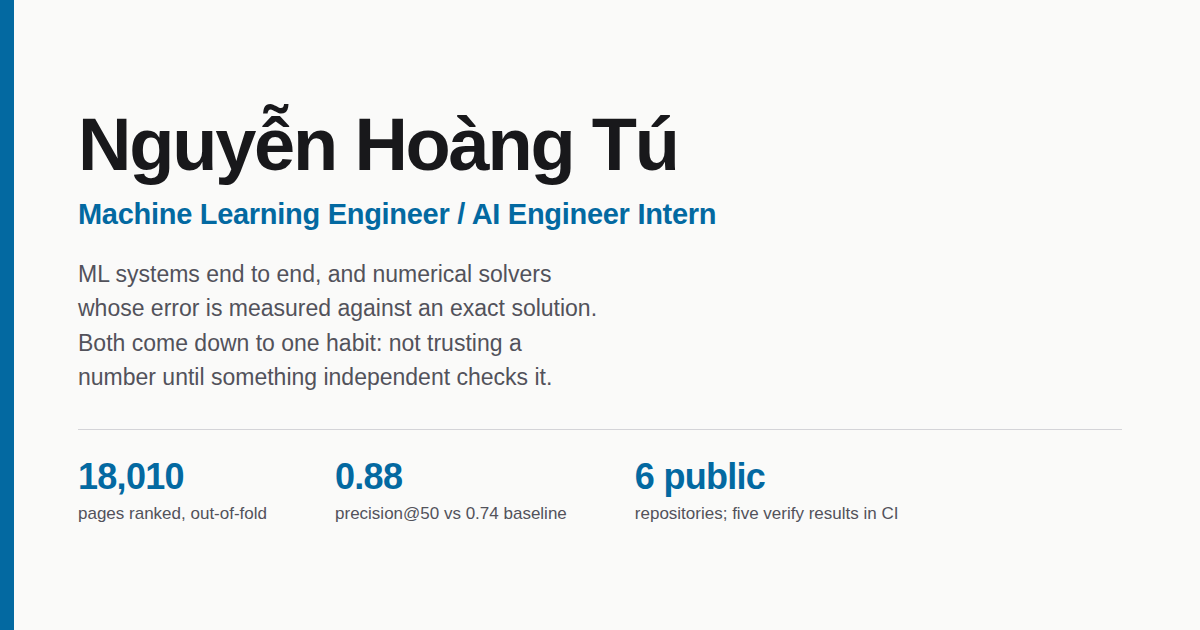
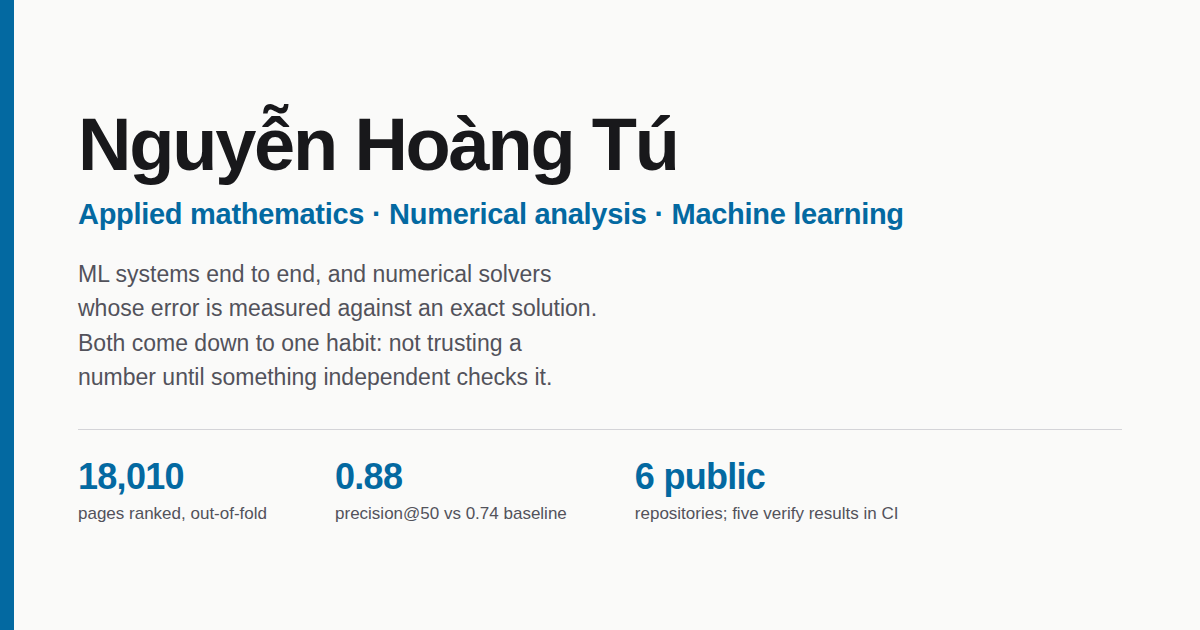
Portfolio: reposition for research, typeset the mathematics, animate the result
The page opened with a six-line paragraph and nothing else above the fold: a
wall of grey prose, no figure, no mathematics, nothing moving, and a role line
aimed only at engineering internships. For a reader deciding whether to look
further -- an admissions committee, a research group -- there was nothing to
look at.

Repositioned. Title, role line, meta description, og/twitter cards and the
JSON-LD jobTitle now read "applied mathematics, numerical analysis and machine
learning" rather than "ML / AI Engineer Intern". The share card is regenerated
from make_portfolio_og.py, so the image matches its generator.

New "Research" section, with the mathematics actually typeset: the sharp CFL
bound and its two constants, the stability bound ||e|| <= pi^-2 ||r||, the
accumulated-error recursion for inexact proximal steps, and the exact statement
of ReLU's degeneracy under a second-order operator. Each one carries what was
measured against it.

This uses native MathML, not a JavaScript renderer. A CDN cannot be reached
from every network a reviewer might be on, and the formulae are the point of
the page -- they should not depend on a third party being up. It also means the
markup could be verified here: all 16 math elements parse as well-formed XML
and were checked visually in Chromium.

Animated, in three ways that all degrade safely:
- the threshold animation from the FEM project is now the hero figure, so the
  first thing on the page is a result rather than a paragraph;
[…]

Changed region(s): [[0.0617, 0.3016, 0.7708, 0.3619]]

diff --git a/docs/portfolio/index.html b/docs/portfolio/index.html
@@ -4,8 +4,8 @@
   <meta charset="UTF-8">
   <meta name="google-site-verification" content="RoBPPTMe-SpFcYKFTp-OJqG3KOfBKTTpeFSvSFcufJE">
   <meta name="viewport" content="width=device-width, initial-scale=1.0">
-  <title>Nguyễn Hoàng Tú — Machine Learning / AI Engineer Intern</title>
-  <meta name="description" content="Maths and CS undergraduate targeting ML / AI Engineer internships. Six public repos: a ranking system with a paper, plus numerical-analysis work verified in CI.">
+  <title>Nguyễn Hoàng Tú — Applied Mathematics &amp; Machine Learning</title>
+  <meta name="description" content="Mathematics and Computer Science undergraduate, VNU-HCM. Numerical analysis and machine learning across six public repositories, recomputed in CI.">
   <link rel="canonical" href="https://tu-h-nguyn.github.io/FlyRank-Machine-Learning-Internship/portfolio/">
   <meta name="robots" content="index, follow, max-image-preview:large">
   <meta name="author" content="Nguyễn Hoàng Tú">
@@ -14,17 +14,17 @@
   <!-- Social share preview -->
   <meta property="og:type" content="profile">
   <meta property="og:site_name" content="Nguyễn Hoàng Tú">
-  <meta property="og:title" content="Nguyễn Hoàng Tú — Machine Learning / AI Engineer Intern">
-  <meta property="og:description" content="Mathematics and Computer Science undergraduate targeting Machine Learning / AI Engineer internships. Six public repositories: a search-ranking system with a published paper (18,010 pages ranked out-of-fold, 0.88 precision@50 against a 0.74 rule baseline) alongside finite element, finite volume and linear multistep work whose published numbers are recomputed in CI.">
+  <meta property="og:title" content="Nguyễn Hoàng Tú — Applied Mathematics &amp; Machine Learning">
+  <meta property="og:description" content="Mathematics and Computer Science undergraduate at VNU-HCM University of Science. Numerical analysis and machine learning: a sharp CFL constant derived and verified to four significant figures, a stability bound checked at every training step, and a search-ranking system with a published paper (18,010 pages ranked out-of-fold, 0.88 precision@50 against a 0.74 rule baseline). Six public repositories, 359 automated tests, results recomputed in CI.">
   <meta property="og:url" content="https://tu-h-nguyn.github.io/FlyRank-Machine-Learning-Internship/portfolio/">
   <meta property="og:image" content="https://tu-h-nguyn.github.io/FlyRank-Machine-Learning-Internship/portfolio/og.png">
   <meta property="og:image:width" content="1200">
   <meta property="og:image:height" content="630">
-  <meta property="og:image:alt" content="Nguyễn Hoàng Tú, Machine Learning / AI Engineer Intern — 18,010 pages ranked, 0.88 precision@50, six public repositories with results verified in CI.">
+  <meta property="og:image:alt" content="Nguyễn Hoàng Tú — applied mathematics and machine learning. 18,010 pages ranked out-of-fold, 0.88 precision@50, six public repositories with results recomputed in CI.">
   <meta property="og:locale" content="en_US">
   <meta name="twitter:card" content="summary_large_image">
-  <meta name="twitter:title" content="Nguyễn Hoàng Tú — Machine Learning / AI Engineer Intern">
-  <meta name="twitter:description" content="Mathematics and Computer Science undergraduate targeting Machine Learning / AI Engineer internships. Six public repositories: a search-ranking system with a published paper (18,010 pages ranked out-of-fold, 0.88 precision@50 against a 0.74 rule baseline) alongside finite element, finite volume and linear multistep work whose published numbers are recomputed in CI.">
+  <meta name="twitter:title" content="Nguyễn Hoàng Tú — Applied Mathematics &amp; Machine Learning">
+  <meta name="twitter:description" content="Mathematics and Computer Science undergraduate at VNU-HCM University of Science. Numerical analysis and machine learning: a sharp CFL constant derived and verified to four significant figures, a stability bound checked at every training step, and a search-ranking system with a published paper (18,010 pages ranked out-of-fold, 0.88 precision@50 against a 0.74 rule baseline). Six public repositories, 359 automated tests, results recomputed in CI.">
   <meta name="twitter:image" content="https://tu-h-nguyn.github.io/FlyRank-Machine-Learning-Internship/portfolio/og.png">
 
   <link rel="icon" href="favicon.svg" type="image/svg+xml">
@@ -46,8 +46,8 @@
     "alternateName": "Tu Nguyen",
     "url": "https://tu-h-nguyn.github.io/FlyRank-Machine-Learning-Internship/portfolio/",
     "image": "https://tu-h-nguyn.github.io/FlyRank-Machine-Learning-Internship/portfolio/og.png",
-    "jobTitle": "Machine Learning Engineer / AI Engineer Intern",
-    "description": "Mathematics and Computer Science undergraduate targeting Machine Learning / AI Engineer internships. Six public repositories: a search-ranking system with a published paper (18,010 pages ranked out-of-fold, 0.88 precision@50 against a 0.74 rule baseline) alongside finite element, finite volume and linear multistep projects whose published numbers are recomputed in CI.",
+    "jobTitle": "Applied mathematics, numerical analysis and machine learning",
+    "description": "Mathematics and Computer Science undergraduate at VNU-HCM University of Science. Numerical analysis and machine learning: a sharp CFL constant derived and verified to four significant figures, a stability bound checked at every training step, and a search-ranking system with a published paper (18,010 pages ranked out-of-fold, 0.88 precision@50 against a 0.74 rule baseline). Six public repositories, 359 automated tests, results recomputed in CI.",
     "knowsAbout": ["Machine Learning", "Deep Learning", "PyTorch", "Time Series Forecasting",
                    "Ranking Systems", "Data Leakage Auditing", "Python", "scikit-learn",
                    "Numerical Analysis", "Finite Element Method", "Finite Volume Method",
@@ -167,6 +167,87 @@
     .btn-secondary { background: transparent; color: var(--accent); }
     .btn-secondary:hover, .btn-secondary:focus-visible { background: var(--accent); color: #fff; outline: none; }
     .btn:focus-visible { box-shadow: 0 0 0 3px var(--accent-light); }
+
+    /* ── Hero statistics ─────────────────────────────────────────────── */
+    .stat-strip {
+      display: grid; grid-template-columns: repeat(4, 1fr);
+      gap: 0; margin: 2rem 0 2.2rem;
+      border-top: 1px solid var(--border); border-bottom: 1px solid var(--border);
+    }
+    .stat { padding: 0.95rem 0.6rem 0.9rem; text-align: left; }
+    .stat + .stat { border-left: 1px solid var(--border); padding-left: 0.95rem; }
+    .stat-num {
+      display: block; font-family: var(--mono); font-weight: 700;
+      font-size: 1.55rem; line-height: 1.1; color: var(--accent);
+      /* Fixed-width digits stop the row jittering while the numbers count up. */
+      font-variant-numeric: tabular-nums;
+    }
+    .stat-lab {
+      display: block; margin-top: 0.3rem; font-size: 0.74rem; line-height: 1.35;
+      color: var(--text-muted); letter-spacing: 0.01em;
+    }
+    @media (max-width: 640px) {
+      .stat-strip { grid-template-columns: repeat(2, 1fr); }
+      .stat:nth-child(3) { border-left: none; padding-left: 0.6rem; }
+      .stat:nth-child(3), .stat:nth-child(4) { border-top: 1px solid var(--border); }
+      .stat-num { font-size: 1.35rem; }
+    }
+
+    /* ── Hero figure ─────────────────────────────────────────────────── */
+    .hero-fig { margin: 0 0 1.6rem; }
+    .hero-fig img {
+      width: 100%; height: auto; display: block;
+      border: 1px solid var(--border); border-radius: 6px; background: var(--surface);
+    }
+    .hero-fig figcaption {
+      margin-top: 0.7rem; font-size: 0.82rem; line-height: 1.6;
+      color: var(--text-secondary);
+    }
+    .hero-fig figcaption a { white-space: nowrap; }
+
+    /* ── Scroll reveal ───────────────────────────────────────────────── */
+    /* Opacity and a small lift only: nothing reflows, so this cannot shift
+       text under a reader's eye mid-sentence. */
+    .reveal { opacity: 0; transform: translateY(14px); }
+    .reveal.shown {
+      opacity: 1; transform: none;
+      transition: opacity .55s ease, transform .55s cubic-bezier(.22,.61,.36,1);
+    }
+    /* Anyone who has asked their system not to animate gets the page static,
+       and — critically — fully visible, never stuck at opacity 0. */
+    @media (prefers-reduced-motion: reduce) {
+      .reveal, .reveal.shown { opacity: 1; transform: none; transition: none; }
+    }
+    /* Printing must never produce blank pages for sections the reader happened
+       not to have scrolled past. */
+    @media print {
+      .reveal, .reveal.shown { opacity: 1 !important; transform: none !important; }
+    }
+
+    /* ── Mathematics ─────────────────────────────────────────────────── */
+    /* Native MathML, no renderer and no CDN. The page is about numerical
+       analysis, so its formulae should be real mathematics rather than
+       sub/sup approximations -- and they should still be there when a CDN is
+       blocked, which is exactly when a reviewer is most likely to be reading. */
+    math { font-size: 1.06em; font-family: 'Latin Modern Math', 'STIX Two Math', 'Cambria Math', serif; }
+    /* Do NOT set `display: block` here. MathML has its own inner display type;
+       overriding it with the CSS block value makes every token lay out as a
+       separate block box and the formula collapses into a vertical column.
+       The display="block" attribute already centres it -- style only the box. */
+    math[display="block"] {
+      margin: 1.15rem 0;
+      overflow-x: auto; overflow-y: hidden;   /* long formulae scroll on a phone */
+    }
+    .eq {
+      margin: 1.2rem 0; padding: 0.9rem 1rem;
+      background: var(--surface); border: 1px solid var(--border);
+      border-left: 3px solid var(--accent); border-radius: 4px;
+    }
+    .eq math[display="block"] { margin: 0.2rem 0; }
+    .eq-note {
+      margin: 0.55rem 0 0; font-size: 0.78rem; line-height: 1.55;
+      color: var(--text-muted); text-align: left;
+    }
 
     .hero-links {
       margin-top: 1rem; font-size: 0.82rem;
@@ -469,6 +550,7 @@
     <div class="nav-inner">
       <span class="nav-name">Nguyễn Hoàng Tú</span>
       <div class="nav-links">
+        <a href="#research">Research</a>
         <a href="#projects">Projects</a>
         <a href="#approach">Approach</a>
         <a href="#skills">Skills</a>
@@ -482,16 +564,43 @@
     <!-- ═══ HERO ═══ -->
     <header class="hero">
       <h1>Nguyễn Hoàng Tú</h1>
-      <p class="role">Machine Learning Engineer / AI Engineer Intern</p>
+      <p class="role">Applied mathematics &middot; Numerical analysis &middot; Machine learning</p>
       <p class="value-prop">
-        Mathematics and Computer Science undergraduate. I build machine learning
-        systems end to end — framing the decision the model has to support, auditing
-        the data for leakage, building a baseline before reaching for a model, and
-        reporting what held up out of sample. The other half of my work is numerical
-        analysis: solvers whose error is measured against an exact solution, and
-        published results a script has to be able to regenerate. Both halves come down
-        to one habit — not trusting a number until something independent checks it.
+        Mathematics and Computer Science undergraduate at VNU-HCM University of
+        Science. I work on <strong>numerical methods for differential equations</strong>
+        and <strong>machine learning systems</strong>, and the two halves share one
+        habit: <strong>no number is published until something independent recomputes
+        it.</strong> Every claim below is checked by a script that fails a build when
+        it stops being true.
       </p>
+
+      <div class="stat-strip" id="stat-strip">
+        <div class="stat"><span class="stat-num" data-to="6">0</span>
+          <span class="stat-lab">public repositories</span></div>
+        <div class="stat"><span class="stat-num" data-to="5">0</span>
+          <span class="stat-lab">recompute results in CI</span></div>
+        <div class="stat"><span class="stat-num" data-to="359">0</span>
+          <span class="stat-lab">automated tests</span></div>
+        <div class="stat"><span class="stat-num" data-to="18010">0</span>
+          <span class="stat-lab">pages ranked out-of-fold</span></div>
+      </div>
+
+      <figure class="hero-fig">
+        <img src="figures/fem_threshold.gif" width="680" height="404" loading="eager"
+             decoding="async"
+             alt="Two panels animating side by side. Left, at 0.98 of the threshold time step, a smooth wave keeps its amplitude. Right, at 1.02 of the threshold, the profile collapses into a sawtooth and the amplitude climbs past one million.">
+        <figcaption>
+          <strong>A sharp stability bound, shown from both sides.</strong> P1 finite
+          elements with leapfrog for the wave equation. Same mesh, same data, same
+          solver — only the step differs, by 4%, across the threshold
+          <math><msup><mi>Δ</mi><mo>∗</mo></msup><mi>t</mi><mo>=</mo><mfrac><mn>2</mn><mrow><mi>c</mi><msqrt><mrow><msub><mi>λ</mi><mi>max</mi></msub><mo form="prefix" stretchy="false">(</mo><msup><mi>T</mi><mrow><mo>−</mo><mn>1</mn></mrow></msup><mi>S</mi><mo form="postfix" stretchy="false">)</mo></mrow></msqrt></mrow></mfrac></math>.
+          Below it the amplitude is conserved; above it the scheme passes
+          <math><msup><mn>10</mn><mn>6</mn></msup></math> before
+          <math><mi>t</mi><mo>=</mo><mn>1.3</mn></math>. Demonstrating one side only
+          cannot distinguish a sharp bound from any tighter one.
+          <a href="https://tu-h-nguyn.github.io/The-Finite-Element-Method-for-the-One-Dimensional-Wave-Equation/" target="_blank" rel="noopener">Full write-up &rarr;</a>
+        </figcaption>
+      </figure>
       <div class="cta-row">
         <a class="btn btn-primary" href="#projects">View projects</a>
         <a class="btn btn-secondary" href="https://github.com/tu-h-nguyn" target="_blank" rel="noopener">GitHub</a>
@@ -521,6 +630,100 @@
         track, of which the ranking capstone was the final deliverable — the credential
         is verifiable from the badge at the foot of this page.
       </p>
+    </section>
+
+    <!-- ═══ RESEARCH ═══ -->
+    <section id="research">
+      <h2>Research</h2>
+      <p class="lede">
+        Four results I derived, implemented and then made a build depend on. Each one
+        is a statement with a hypothesis, and in each case the code checks the
+        hypothesis as well as the conclusion — a bound is only as good as the
+        assumption it rests on.
+      </p>
+
+      <div class="eq">
+        <math display="block">
+          <mi>Δ</mi><mi>t</mi><mo>&lt;</mo>
+          <mfrac><mn>2</mn><mrow><mi>c</mi><msqrt><mrow><msub><mi>λ</mi><mi>max</mi></msub><mo stretchy="false">(</mo><msup><mi>T</mi><mrow><mo>−</mo><mn>1</mn></mrow></msup><mi>S</mi><mo stretchy="false">)</mo></mrow></msqrt></mrow></mfrac>
+          <mspace width="1.4em"/><mo>⟹</mo><mspace width="0.7em"/>
+          <mi>Δ</mi><mi>t</mi><mo>&lt;</mo>
+          <mfrac><mi>h</mi><mrow><mi>c</mi><msqrt><mn>3</mn></msqrt></mrow></mfrac>
+          <mspace width="0.9em"/><mtext>(full mass)</mtext><mo>,</mo>
+          <mspace width="0.7em"/>
+          <mi>Δ</mi><mi>t</mi><mo>&lt;</mo><mfrac><mi>h</mi><mi>c</mi></mfrac>
+          <mspace width="0.6em"/><mtext>(lumped)</mtext>
+        </math>
+        <p class="eq-note">
+          <strong>Sharp CFL for P1 elements.</strong> Necessary <em>and</em> sufficient,
+          from the closed-form spectrum of the generalised eigenproblem. The familiar
+          <math><mi>Δ</mi><mi>t</mi><mo>≤</mo><mi>h</mi><mo>/</mo><mi>c</mi></math>
+          is not sufficient with a consistent mass matrix — a factor of
+          <math><msqrt><mn>3</mn></msqrt></math> apart. The measured threshold agrees
+          to four significant figures, and the animation above shows both sides of it.
+        </p>
+      </div>
+
+      <div class="eq">
+        <math display="block">
+          <mo lspace="0" rspace="0" stretchy="false">∥</mo><mi>e</mi><msub><mo lspace="0" rspace="0" stretchy="false">∥</mo><mrow><msup><mi>L</mi><mn>2</mn></msup></mrow></msub>
+          <mo>≤</mo>
+          <msup><mi>π</mi><mrow><mo>−</mo><mn>2</mn></mrow></msup>
+          <mo lspace="0" rspace="0" stretchy="false">∥</mo><mi>r</mi><msub><mo lspace="0" rspace="0" stretchy="false">∥</mo><mrow><msup><mi>L</mi><mn>2</mn></msup></mrow></msub>
+        </math>
+        <p class="eq-note">
+          <strong>Why minimising a residual is worth doing.</strong> A stability bound
+          for the differential problem: a small residual really does mean a small error.
+          With the boundary condition imposed exactly the bound holds at every training
+          milestone (largest observed ratio 0.0261 against 0.1013); weaken that
+          hypothesis and it is exceeded by 96×. The hypothesis is checked, not assumed.
+        </p>
+      </div>
+
+      <div class="eq">
+        <math display="block">
+          <msub><mi>δ</mi><mrow><mi>k</mi><mo lspace="0.05em" rspace="0.05em">+</mo><mn>1</mn></mrow></msub>
+          <mo>=</mo>
+          <mo stretchy="false">(</mo><mn>1</mn><mo>−</mo><msub><mi>α</mi><mi>k</mi></msub><mo stretchy="false">)</mo>
+          <msub><mi>δ</mi><mi>k</mi></msub>
+          <mo>+</mo>
+          <mfrac><msubsup><mi>ε</mi><mi>k</mi><mn>2</mn></msubsup><mrow><mn>2</mn><msub><mi>λ</mi><mi>k</mi></msub></mrow></mfrac>
+          <mspace width="1.6em"/>
+          <msub><mi>δ</mi><mi>k</mi></msub><mo>∼</mo>
+          <msup><mi>k</mi><mrow><mo>−</mo><mn>1.99</mn></mrow></msup>
+        </math>
+        <p class="eq-note">
+          <strong>How inexactly can you solve a proximal subproblem?</strong> Two notions
+          of inexactness give different accumulated error. Under the second, the measured
+          decay is
+          <math><msup><mi>k</mi><mrow><mo>−</mo><mn>1.99</mn></mrow></msup></math>
+          against the predicted
+          <math><msup><mi>k</mi><mrow><mo>−</mo><mn>2</mn></mrow></msup></math> — within
+          0.6% — which is what preserves the accelerated rate; the first gives only
+          <math><msup><mi>k</mi><mrow><mo>−</mo><mn>0.52</mn></mrow></msup></math>.
+          The convergence bound is checked at every outer step: 0 violations in 121.
+        </p>
+      </div>
+
+      <div class="eq">
+        <math display="block">
+          <mi>σ</mi><mo>=</mo><mtext>ReLU</mtext>
+          <mspace width="0.8em"/><mo>⟹</mo><mspace width="0.8em"/>
+          <msup><mi>σ</mi><mo>″</mo></msup><mo>≡</mo><mn>0</mn>
+          <mspace width="0.8em"/><mo>⟹</mo><mspace width="0.8em"/>
+          <mo>∇</mo><msub><mi>J</mi><mi>r</mi></msub><mo>=</mo><mn>0</mn>
+        </math>
+        <p class="eq-note">
+          <strong>A failure mode stated exactly.</strong> For a second-order operator the
+          residual objective of a physics-informed network is <em>locally constant</em>
+          under ReLU, so every gradient-based method is exactly stationary — not slow,
+          stationary. Measured: the loss never moves from
+          <math><mn>776.229</mn></math>, which is the grid mean of
+          <math><msup><mi>f</mi><mn>2</mn></msup></math> to
+          <math><msup><mn>10</mn><mrow><mo>−</mo><mn>12</mn></mrow></msup></math>.
+          tanh reaches <math><mn>6.0</mn><mo>×</mo><msup><mn>10</mn><mrow><mo>−</mo><mn>5</mn></mrow></msup></math>.
+        </p>
+      </div>
     </section>
 
     <!-- ═══ EVIDENCE ═══ -->
@@ -1315,6 +1518,69 @@
       s.setAttribute("data-goatcounter", endpoint);
       document.head.appendChild(s);
     })();
+  </script>
+  <script>
+  /* ── Motion ────────────────────────────────────────────────────────────
+     Two effects, both progressive: if this script never runs, the page is
+     fully readable — nothing here is required to see the content. Sections
+     get .reveal only from JavaScript, so a reader without it never meets an
+     element stuck at opacity 0. */
+  (function () {
+    var reduced = window.matchMedia
+      && window.matchMedia('(prefers-reduced-motion: reduce)').matches;
+    if (reduced || !('IntersectionObserver' in window)) return;
+
+    /* 1. Reveal sections as they arrive. */
+    var targets = document.querySelectorAll('main > section, .hero-fig, .stat-strip');
+    for (var i = 0; i < targets.length; i++) targets[i].classList.add('reveal');
+    var io = new IntersectionObserver(function (entries) {
+      entries.forEach(function (e) {
+        if (!e.isIntersecting) return;
+        e.target.classList.add('shown');
+        io.unobserve(e.target);
+      });
+    }, { rootMargin: '0px 0px -8% 0px', threshold: 0.06 });
+    for (var j = 0; j < targets.length; j++) io.observe(targets[j]);
+
+    /* Failsafes. A decorative effect must never be able to hide content:
+       - find-in-page and in-page anchors can jump past the observer;
+       - printing takes the whole document at once;
+       - and if anything above misbehaves, everything is shown anyway. */
+    function showAll() {
+      io.disconnect();
+      for (var k = 0; k < targets.length; k++) targets[k].classList.add('shown');
+    }
+    window.addEventListener('beforeprint', showAll);
+    window.addEventListener('hashchange', showAll);
+    setTimeout(showAll, 8000);
+
+    /* 2. Count the hero figures up, once, when the strip first appears. */
+    var strip = document.getElementById('stat-strip');
+    if (!strip) return;
+    var counted = false;
+    var cio = new IntersectionObserver(function (entries) {
+      if (counted || !entries[0].isIntersecting) return;
+      counted = true;
+      cio.disconnect();
+      var nums = strip.querySelectorAll('.stat-num');
+      nums.forEach(function (el) {
+        var to = parseInt(el.getAttribute('data-to'), 10);
+        if (!isFinite(to)) return;
+        var t0 = null, dur = 1100;
+        function step(ts) {
+          if (t0 === null) t0 = ts;
+          var k = Math.min(1, (ts - t0) / dur);
+          /* ease-out: fast first, settles on the value rather than snapping */
+          var v = Math.round(to * (1 - Math.pow(1 - k, 3)));
+          el.textContent = v.toLocaleString('en-US');
+          if (k < 1) requestAnimationFrame(step);
+          else el.textContent = to.toLocaleString('en-US');
+        }
+        requestAnimationFrame(step);
+      });
+    }, { threshold: 0.4 });
+    cio.observe(strip);
+  })();
   </script>
 </body>
 </html>

diff --git a/work/scripts/make_portfolio_og.py b/work/scripts/make_portfolio_og.py
@@ -35,7 +35,7 @@ CARD = """
 </style>
 <div class="bar"></div>
 <h1>Nguy&#7877;n Ho&agrave;ng T&uacute;</h1>
-<p class="role">Machine Learning Engineer / AI Engineer Intern</p>
+<p class="role">Applied mathematics &middot; Numerical analysis &middot; Machine learning</p>
 <p class="deck">ML systems end to end, and numerical solvers whose error is measured
    against an exact solution. Both come down to one habit: not trusting a number
    until something independent checks it.</p>
